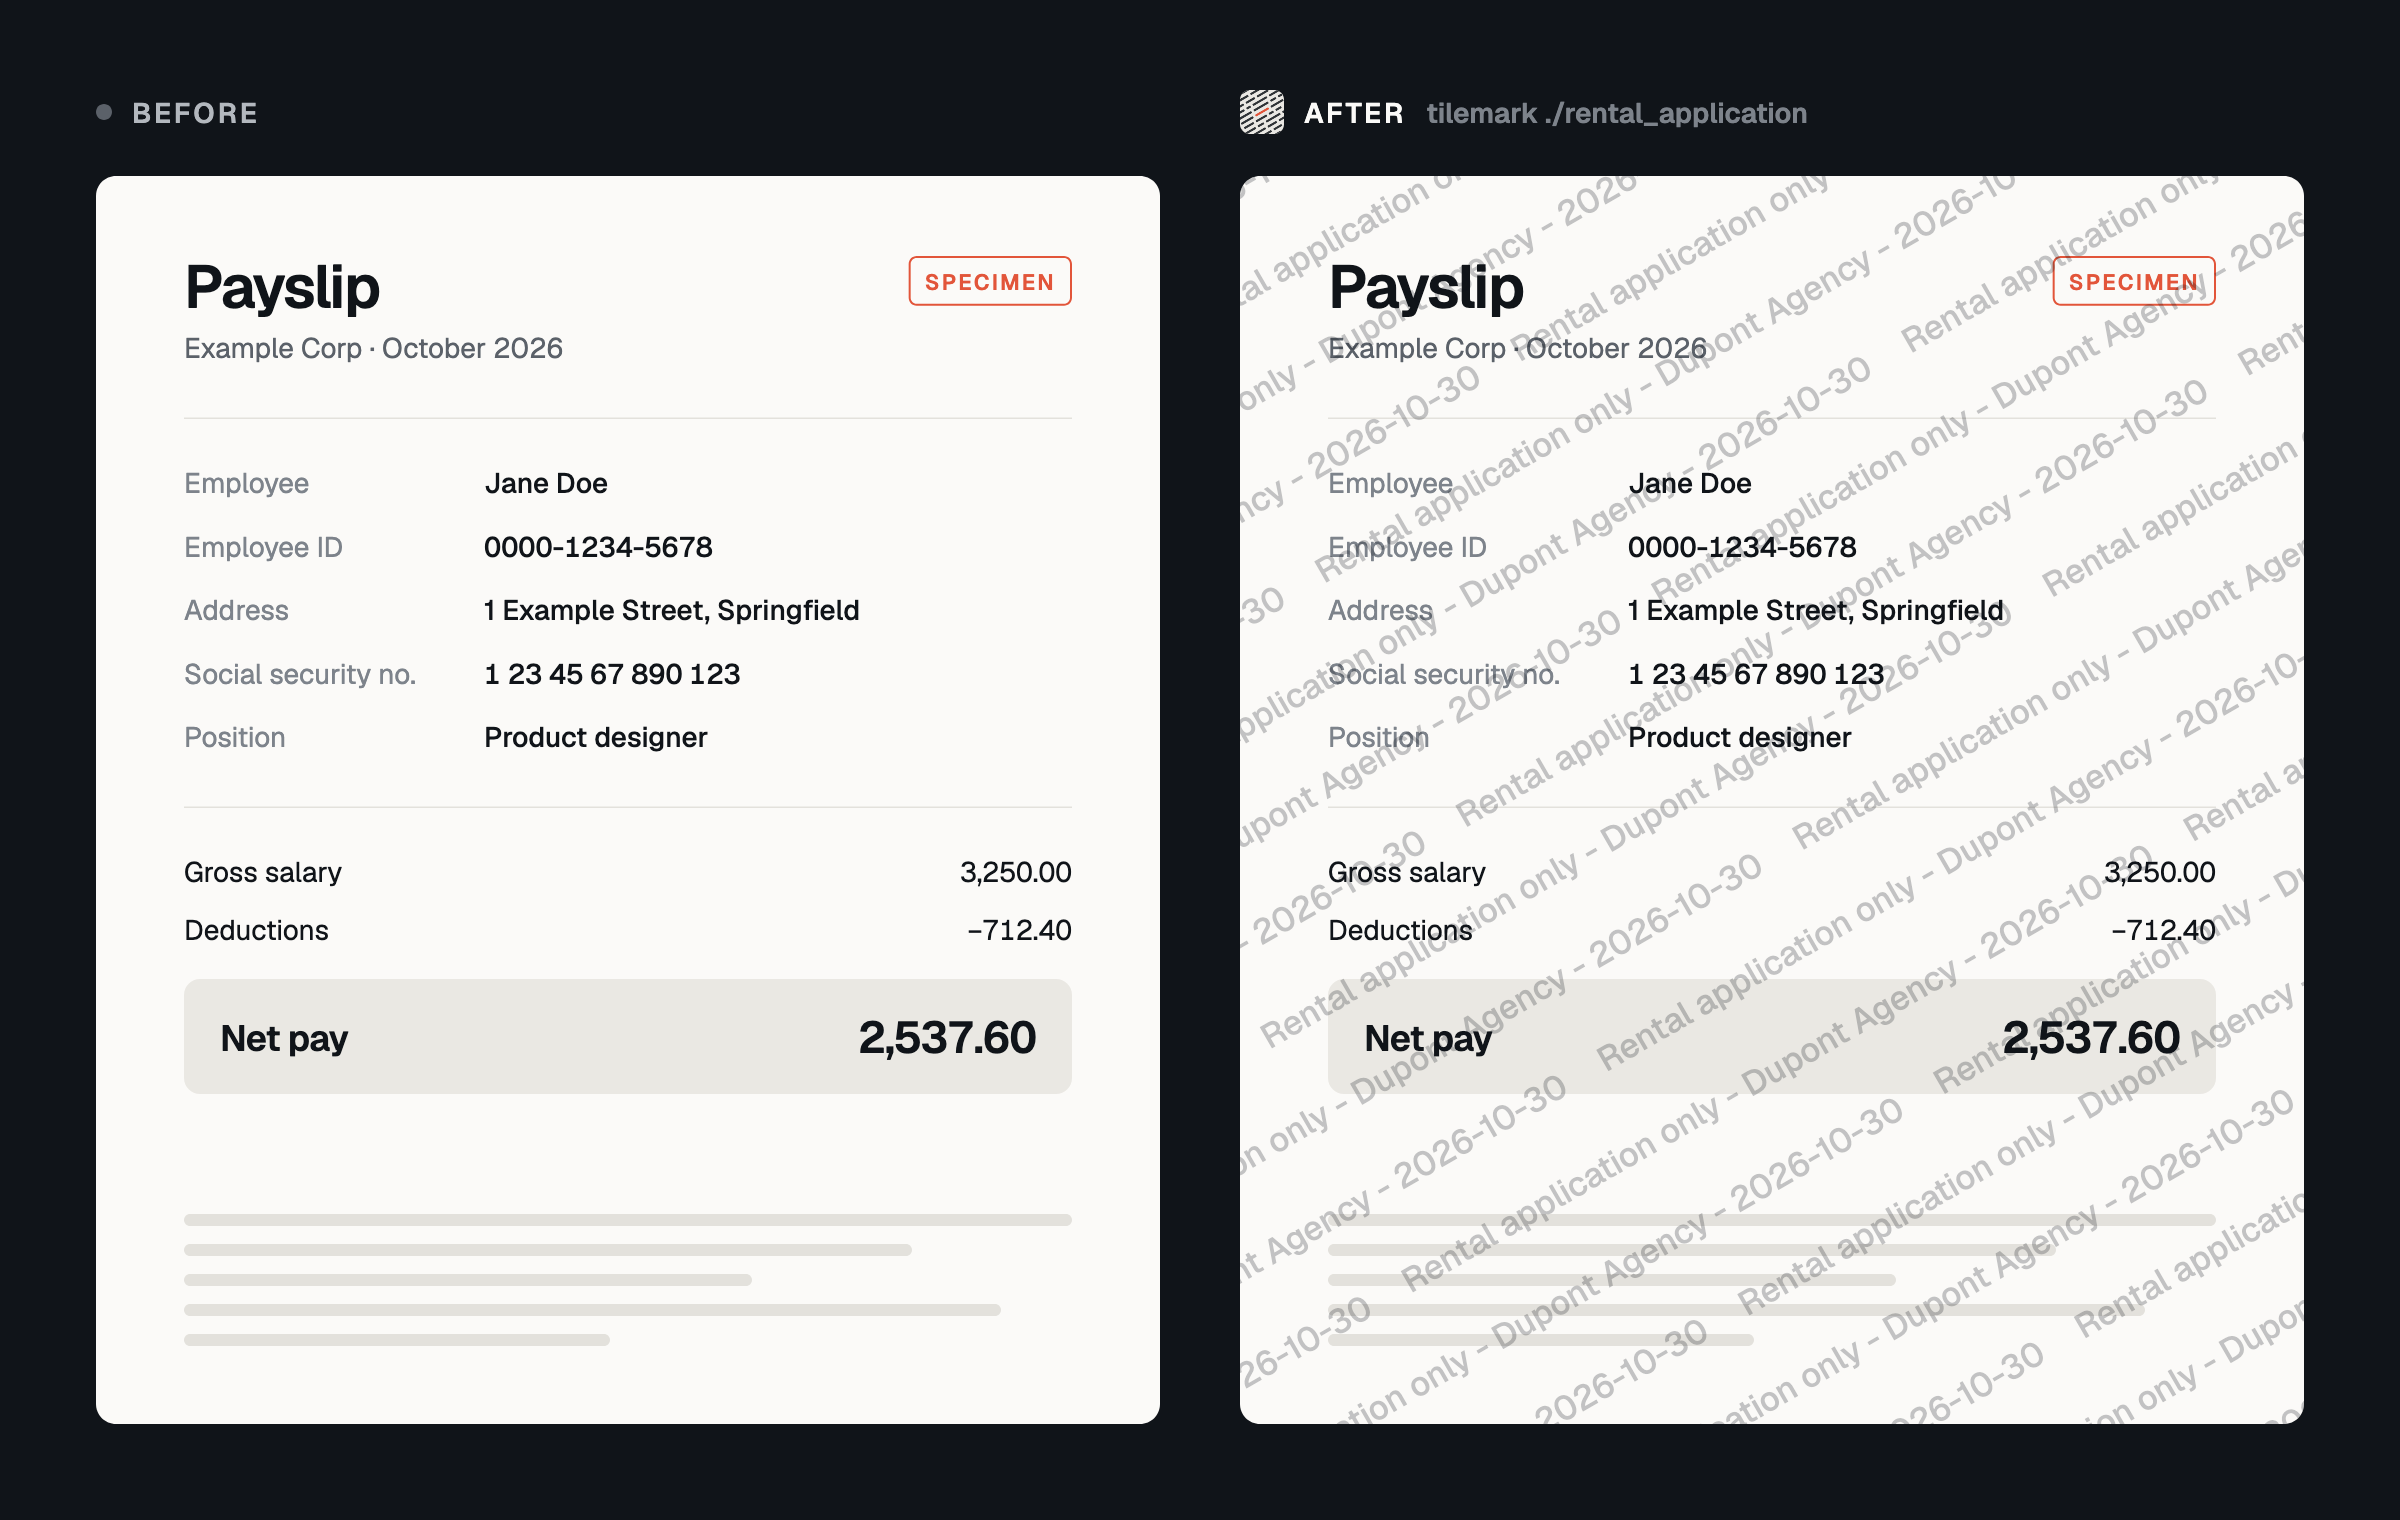
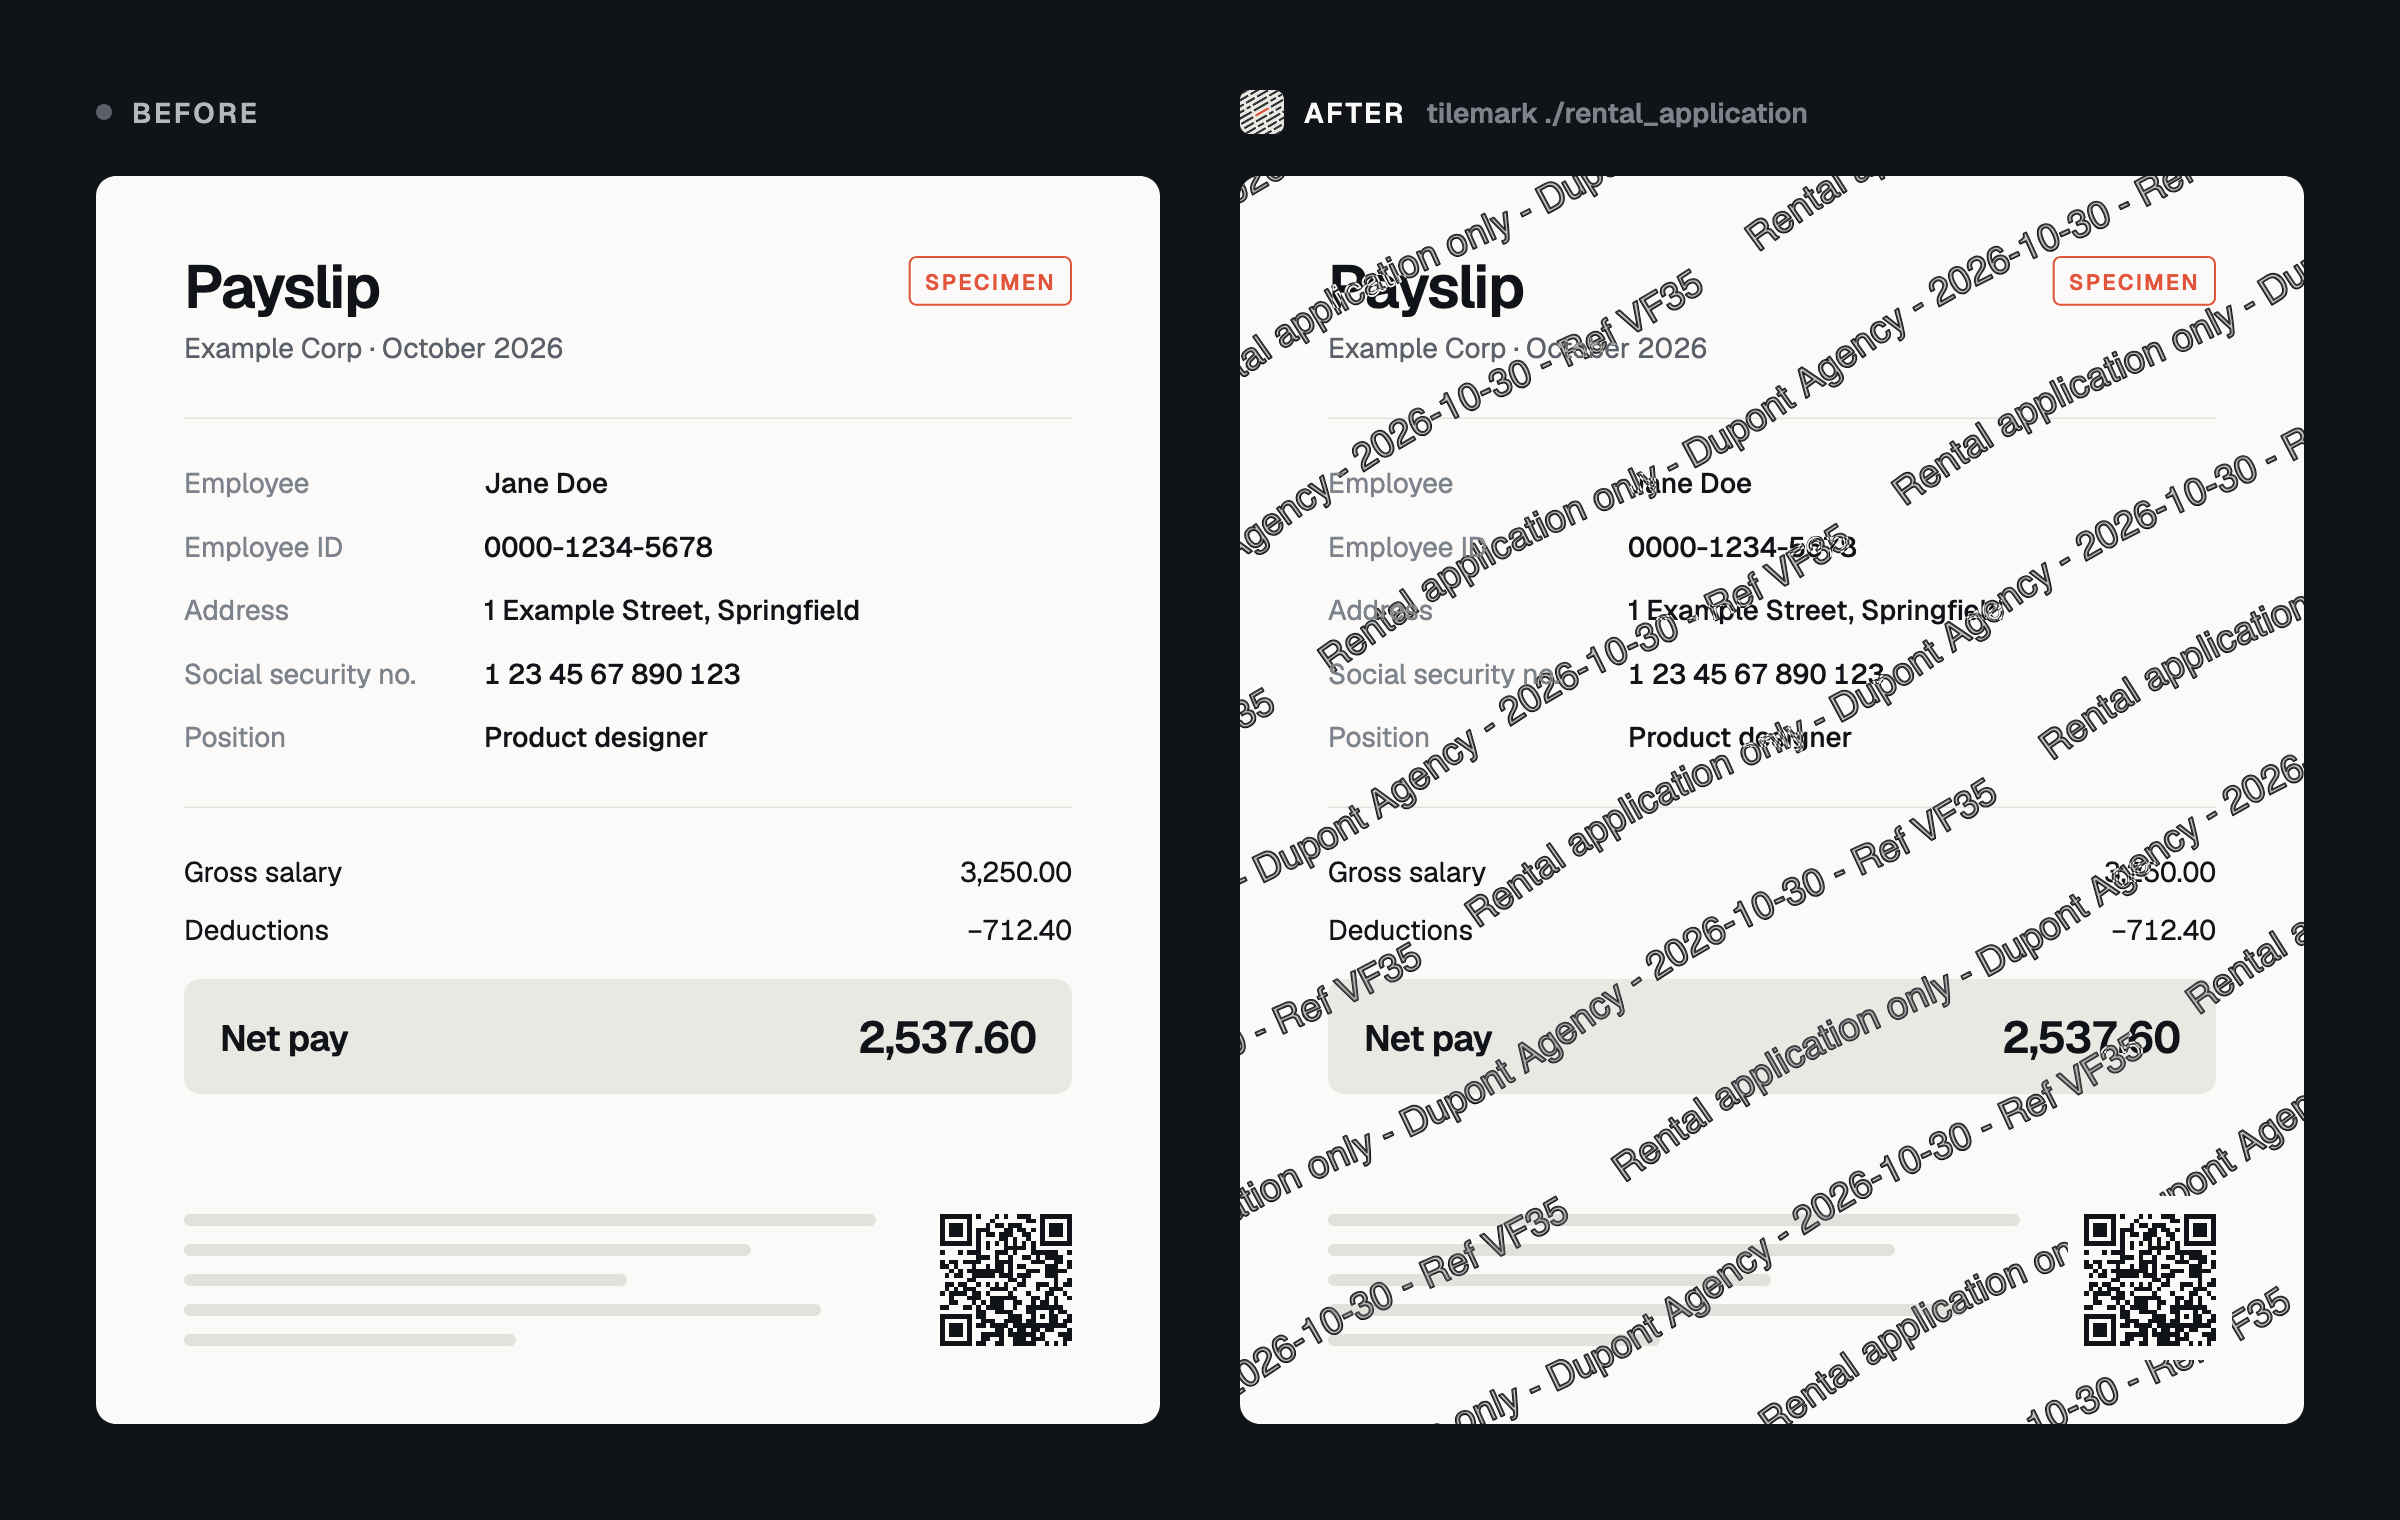
Release 0.2.0

diff --git a/tilemark/__init__.py b/tilemark/__init__.py
@@ -1,3 +1,3 @@
 """Burn a tiled, hard-to-remove watermark into PDFs and images."""
 
-__version__ = "0.1.0"
+__version__ = "0.2.0"

diff --git a/README.md b/README.md
@@ -84,7 +84,7 @@ You are then asked for the watermark text; today's date and a reference are
 appended.
 
 ```
- tilemark   v0.1.0 · local only, nothing leaves this machine
+ tilemark   v0.2.0 · local only, nothing leaves this machine
 
 ◇  Watermark text
 │  Rental application only - Dupont Agency - 2026-10-30 - Ref 7KQ2

diff --git a/CHANGELOG.md b/CHANGELOG.md
@@ -1,6 +1,6 @@
 # Changelog
 
-## Unreleased
+## 0.2.0 — 2026-10-31
 
 - Redesigned terminal output.
 - Files can be given instead of a folder (`tilemark id_card.pdf payslip.jpg`),
